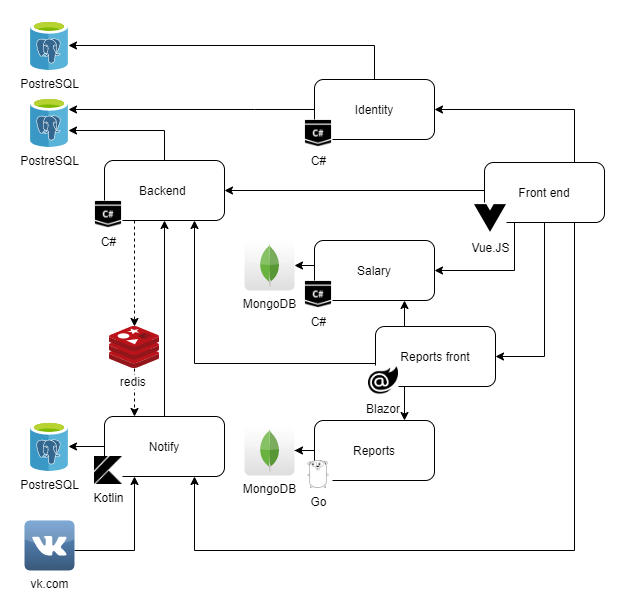
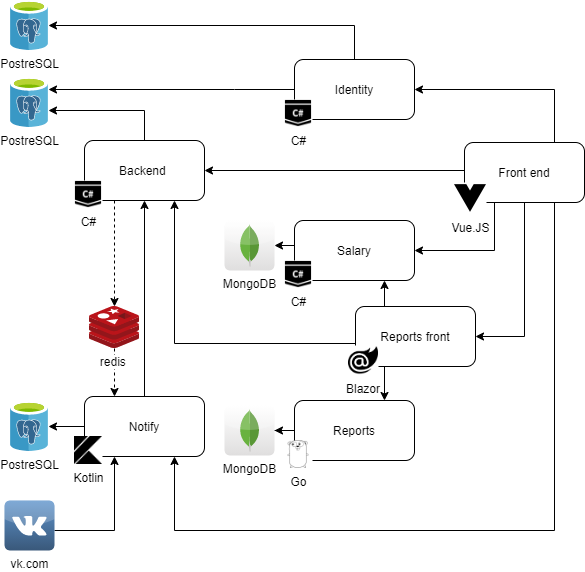
Add ToBe architecture

Changed region(s): [[0.0, 0.0, 1.0, 1.0], [0.2154, 0.2972, 0.3077, 0.3269]]

diff --git a/README.md b/README.md
@@ -50,6 +50,5 @@ General site will be available on [http://127.0.0.1.xip.io:5500](http://127.0.0.
 ## Architecture
 ### Current
 ![Architecture (current)](docs/img/CurrentArchitecture.png)
-
-
-[Draw.io source file](docs/src/CurrentArchitecture.drawio)
+### To be
+![Architecture (to be)](docs/img/ToBeArchitecture.png)
